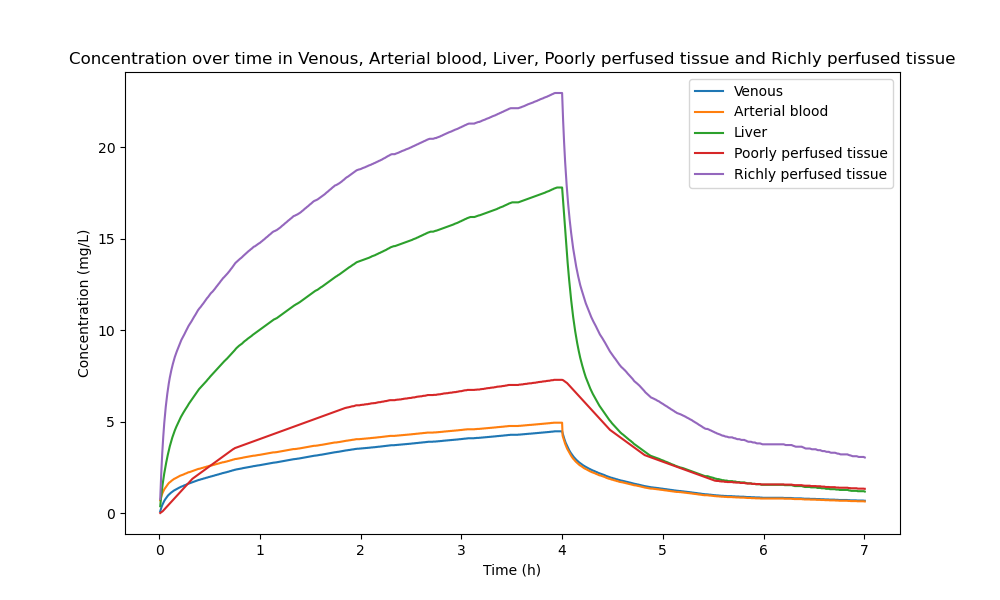
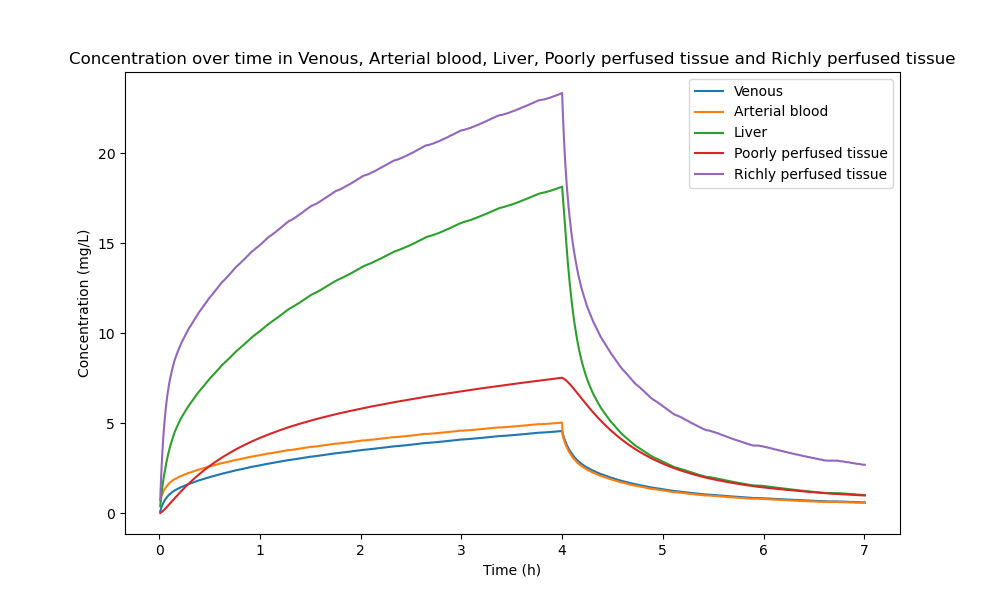
Feat: Add new animals class:  - With information about the animal that we want to analyze

diff --git a/pbtk/pbtk_rat.py b/pbtk/pbtk_rat.py
@@ -1,9 +1,10 @@
 import matplotlib.pyplot as plt  
 
 from pbtk import AbstractPBTKModel
+from Animals.Mammals.Rat import Rat
 
-
-class RatPBTKModel(AbstractPBTKModel):  
+#export PYTHONPATH="${PYTHONPATH}:
+class RatPBTKModel(AbstractPBTKModel, Rat):  
     """  
 This class implements a four-compartment Physiologically Based Toxicokinetic (PBTK) model for a rat.   
   
@@ -41,20 +42,24 @@ The results of the model can be plotted using the `plot_results` method, which c
 The model can also save the plots to files using the `save_plots` method.  
 """  
 
-    def __init__(self, Q_c=5.25, Q_p=5.25, Q_f=0.47, Q_l=1.31, Q_s=0.79, Q_r=2.68,   
-                 V_f=0.022, V_l=0.012, V_s=0.174, V_r=0.012,   
-                 P_f=56.72, P_l=4.64, P_s=1.54, P_r=4.64, P_b=18,   
-                 Vmax=1.66, Km=0.55, C_inh_n=0.75,   
+    def __init__(self,
+                 P_f=56.72, P_l=4.64, P_s=1.54, P_r=4.64, P_b=18,
+                 V_max=1.66, K_m=0.55,
+                 C_inh_n=0.75,   
                  C_l=0, C_f=0, C_s=0, C_r=0, C_v=0,
                  integration_step=0.005,
                  exposure_time=4,
-                 simulation_time=7):    
+                 simulation_time=7): 
         
-        # Parameters    
-        self.Q_c, self.Q_p, self.Q_f, self.Q_l, self.Q_s, self.Q_r = Q_c, Q_p, Q_f, Q_l, Q_s, Q_r    
-        self.V_f, self.V_l, self.V_s, self.V_r = V_f, V_l, V_s, V_r    
-        self.P_f, self.P_l, self.P_s, self.P_r, self.P_b = P_f, P_l, P_s, P_r, P_b    
-        self.Vmax, self.Km = Vmax, Km    
+        # Initialize Rat class  
+        Rat.__init__(self)    
+        
+        # Metabolism parameters
+        self.V_max, self.K_m = V_max, K_m
+        
+        # Parameters molecule interaction with tissues
+        self.P_f, self.P_l, self.P_s, self.P_r, self.P_b = P_f, P_l, P_s, P_r, P_b   
+         
         self.integration_step = integration_step
         self.exposure_time = exposure_time
         self.simulation_time = simulation_time
@@ -78,20 +83,20 @@ The model can also save the plots to files using the `save_plots` method.
             C_a = round((self.Q_c*self.C_v + self.Q_p*self.C_inh_n) / (self.Q_c + (self.Q_p/self.P_b)),2)  
   
             # Liver  
-            dc_l_dt = round( (self.Q_l/self.V_l) * (C_a - self.C_l/self.P_l) - ((self.Vmax/self.V_l * self.C_l/self.P_l)/(self.Km + self.C_l/self.P_l)),2)  
-            self.C_l = round(dc_l_dt * self.integration_step + self.C_l,2)  
+            dc_l_dt = round( (self.Q_l/self.V_l) * (C_a - self.C_l/self.P_l) - ((self.V_max/self.V_l * self.C_l/self.P_l)/(self.K_m + self.C_l/self.P_l)),2)  
+            self.C_l = self.calculate_integral(dc_l_dt, self.integration_step, self.C_l)
   
             # Fat  
             dc_f_dt = round(self.Q_f/self.V_f * (C_a - self.C_f / self.P_f),2)  
-            self.C_f = round(dc_f_dt * self.integration_step + self.C_f,2)  
+            self.C_f = self.calculate_integral(dc_f_dt, self.integration_step, self.C_f)
   
             # Poorly perfused tissue  
             dc_s_dt = round(self.Q_s/self.V_s * (C_a - self.C_s / self.P_s),2)  
-            self.C_s = round(dc_s_dt * self.integration_step + self.C_s,2)  
+            self.C_s = self.calculate_integral(dc_s_dt, self.integration_step, self.C_s)
   
             # Richly perfused tissue  
             dc_r_dt = round(self.Q_r/self.V_r * (C_a - self.C_r / self.P_r),2)  
-            self.C_r = round(dc_r_dt * self.integration_step + self.C_r,2)  
+            self.C_r = self.calculate_integral(dc_r_dt, self.integration_step, self.C_r)
   
             # Venous blood  
             self.C_v = round((self.Q_l * self.C_l/self.P_l + self.Q_f*self.C_f/self.P_f + self.Q_s * self.C_s/self.P_s + self.Q_r * self.C_r/self.P_r) / (self.Q_c),2)  
@@ -150,7 +155,7 @@ The model can also save the plots to files using the `save_plots` method.
         plt.close(fig2)  # Close the figure  
 
 
-if __name__ == '__main__':  
+if __name__ == '__main__':
     model = RatPBTKModel()  
     model.calculate_concentrations()  
-    model.save_plots('plots/plot1.png', 'plots/plot2.png')  
+    model.plot_results()  

diff --git a/Animals/Mammals/Rat.py b/Animals/Mammals/Rat.py
@@ -1,0 +1,63 @@
+
+from Animals.Animal import Animal  
+  
+class Rat(Animal):  
+    """    
+    This class represents a rat in a Physiologically Based Toxicokinetic (PBTK) model.    
+        
+    The class inherits from the Animal class and initializes several physiological parameters     
+    such as cardiac output (Q_c), alveolar ventilation rate (Q_p), blood flow to various tissues     
+    (Q_f, Q_l, Q_s, Q_r), volume of various tissues (V_f, V_l, V_s, V_r), maximal velocity of     
+    metabolism (V_max), and Michaelis–Menten affinity (K_m).    
+        
+    It also initializes tissue partition concentrations (C_l, C_f, C_s, C_r, C_v) to 0.    
+        
+    Parameters    
+    ----------    
+    Q_c : float, optional    
+        Cardiac output, by default 5.25    
+    Q_p : float, optional    
+        Alveolar ventilation rate, by default 5.25    
+    Q_f : float, optional    
+        Fat blood flow, by default 0.47    
+    Q_l : float, optional    
+        Liver blood flow, by default 1.31    
+    Q_s : float, optional    
+        Poorly perfused tissues blood flow, by default 0.79    
+    Q_r : float, optional    
+        Richly perfused tissues blood flow, by default 2.68    
+    V_f : float, optional    
+        Fat volume, by default 0.022    
+    V_l : float, optional    
+        Liver volume, by default 0.012    
+    V_s : float, optional    
+        Poorly perfused tissues volume, by default 0.174    
+    V_r : float, optional    
+        Richly perfused tissues volume, by default 0.012    
+    """    
+    def __init__(self, Q_c=5.25, Q_p=5.25,  
+                 Q_f=0.47, Q_l=1.31,  
+                 Q_s=0.79, Q_r=2.68,  
+                 V_f=0.022, V_l=0.012,  
+                 V_s=0.174, V_r=0.012):  
+        # Parameters  
+        # Flows  
+        self.Q_c = Q_c  
+        self.Q_p = Q_p  
+        self.Q_f = Q_f  
+        self.Q_l = Q_l  
+        self.Q_s = Q_s  
+        self.Q_r = Q_r  
+          
+        # Volumes  
+        self.V_f = V_f  
+        self.V_l = V_l  
+        self.V_s = V_s  
+        self.V_r = V_r  
+                  
+        # Tissue partition concentrations  
+        self.C_l = 0  
+        self.C_f = 0  
+        self.C_s = 0  
+        self.C_r = 0  
+        self.C_v = 0  

diff --git a/pbtk/pbtk_trout.py b/pbtk/pbtk_trout.py
@@ -105,27 +105,27 @@ class TroutePBTKModel(AbstractPBTKModel):
             
             # Liver metabolism
             dc_met_dt = (self.V_max*self.C_l/self.P_l)/(self.K_m + self.C_l/self.P_l) / self.V_l
-            self.C_m = dc_met_dt*self.integration_step+self.C_m            
+            self.C_m = self.calculate_integral(dc_met_dt, self.integration_step, self.C_m)
             # Liver
             dcl_dt = (self.Q_l*C_a + self.Q_r*self.C_r/self.P_r)/self.V_l - (self.Q_l+self.Q_r)/self.V_l * self.C_l/self.P_l - dc_met_dt
-            self.C_l = dcl_dt*self.integration_step+self.C_l
+            self.C_l = self.calculate_integral(dcl_dt, self.integration_step, self.C_l)
 
             
             # Fat Tissue
             dc_f_dt = self.Q_f/self.V_f*(C_a-self.C_f/self.P_f)
-            self.C_f = dc_f_dt*self.integration_step+self.C_f # an integration it would be better
+            self.C_f = self.calculate_integral(dc_f_dt, self.integration_step, self.C_f)
             
             # Richly perfused tissue
             dc_r_dt = self.Q_r/self.V_r*(C_a-self.C_r/self.P_r)
-            self.C_r = dc_r_dt*self.integration_step+self.C_r
+            self.C_r = self.calculate_integral(dc_r_dt, self.integration_step, self.C_r)
             
             # Poorly perfused tissue
             dc_s_dt = self.Q_s/self.V_s*(C_a-self.C_s/self.P_s)
-            self.C_s = dc_s_dt*self.integration_step+self.C_s
+            self.C_s = self.calculate_integral(dc_s_dt, self.integration_step, self.C_s)
             
             # Kidney
             dc_k_dt = ((self.Q_k * C_a + 0.6 * self.Q_s * self.C_s/self.P_s) / self.V_k) - ((self.Q_k + 0.6 * self.Q_s) / self.V_k) * (self.C_k/self.P_k)
-            self.C_k += dc_k_dt*self.integration_step
+            self.C_k = self.calculate_integral(dc_k_dt, self.integration_step, self.C_k)
         
             # Append results to lists
             self.C_a_list.append(C_a)

diff --git a/pbtk/pbtk.py b/pbtk/pbtk.py
@@ -16,3 +16,6 @@ class AbstractPBTKModel(ABC):
     @abstractmethod  
     def save_plots(self, filename1, filename2):  
         pass  
+    
+    def calculate_integral(self, derivate, t, C):
+        return derivate * t + C 

diff --git a/Molecules/Molecules.py b/Molecules/Molecules.py
@@ -1,0 +1,7 @@
+from abc import ABC, abstractmethod
+
+class Molecule(ABC):
+    @abstractmethod
+    def __init__(self):
+        pass
+    

diff --git a/Animals/Animal.py b/Animals/Animal.py
@@ -1,0 +1,7 @@
+from abc import ABC, abstractmethod
+
+class Animal(ABC):
+    @abstractmethod
+    def __init__(self):
+        pass
+    
